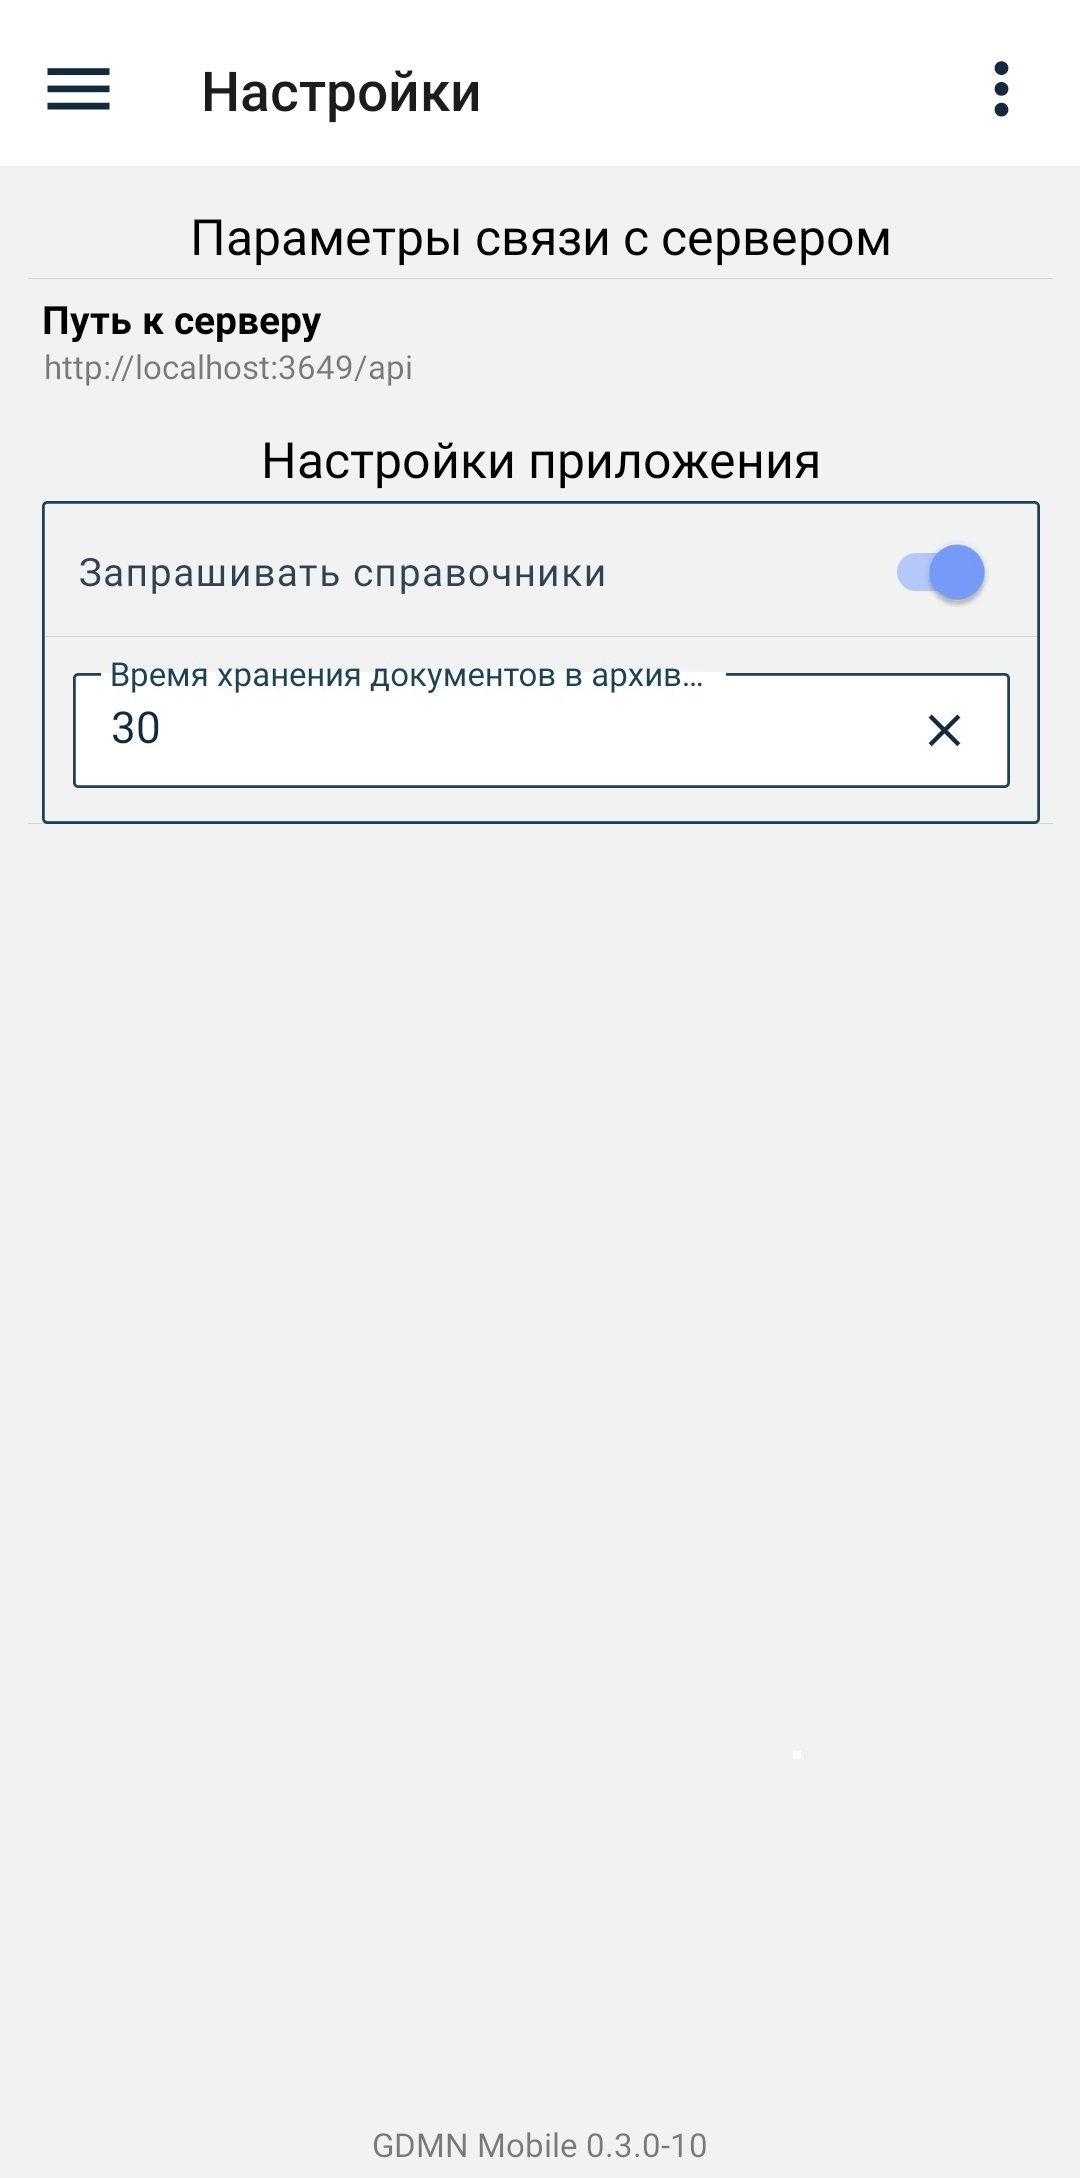
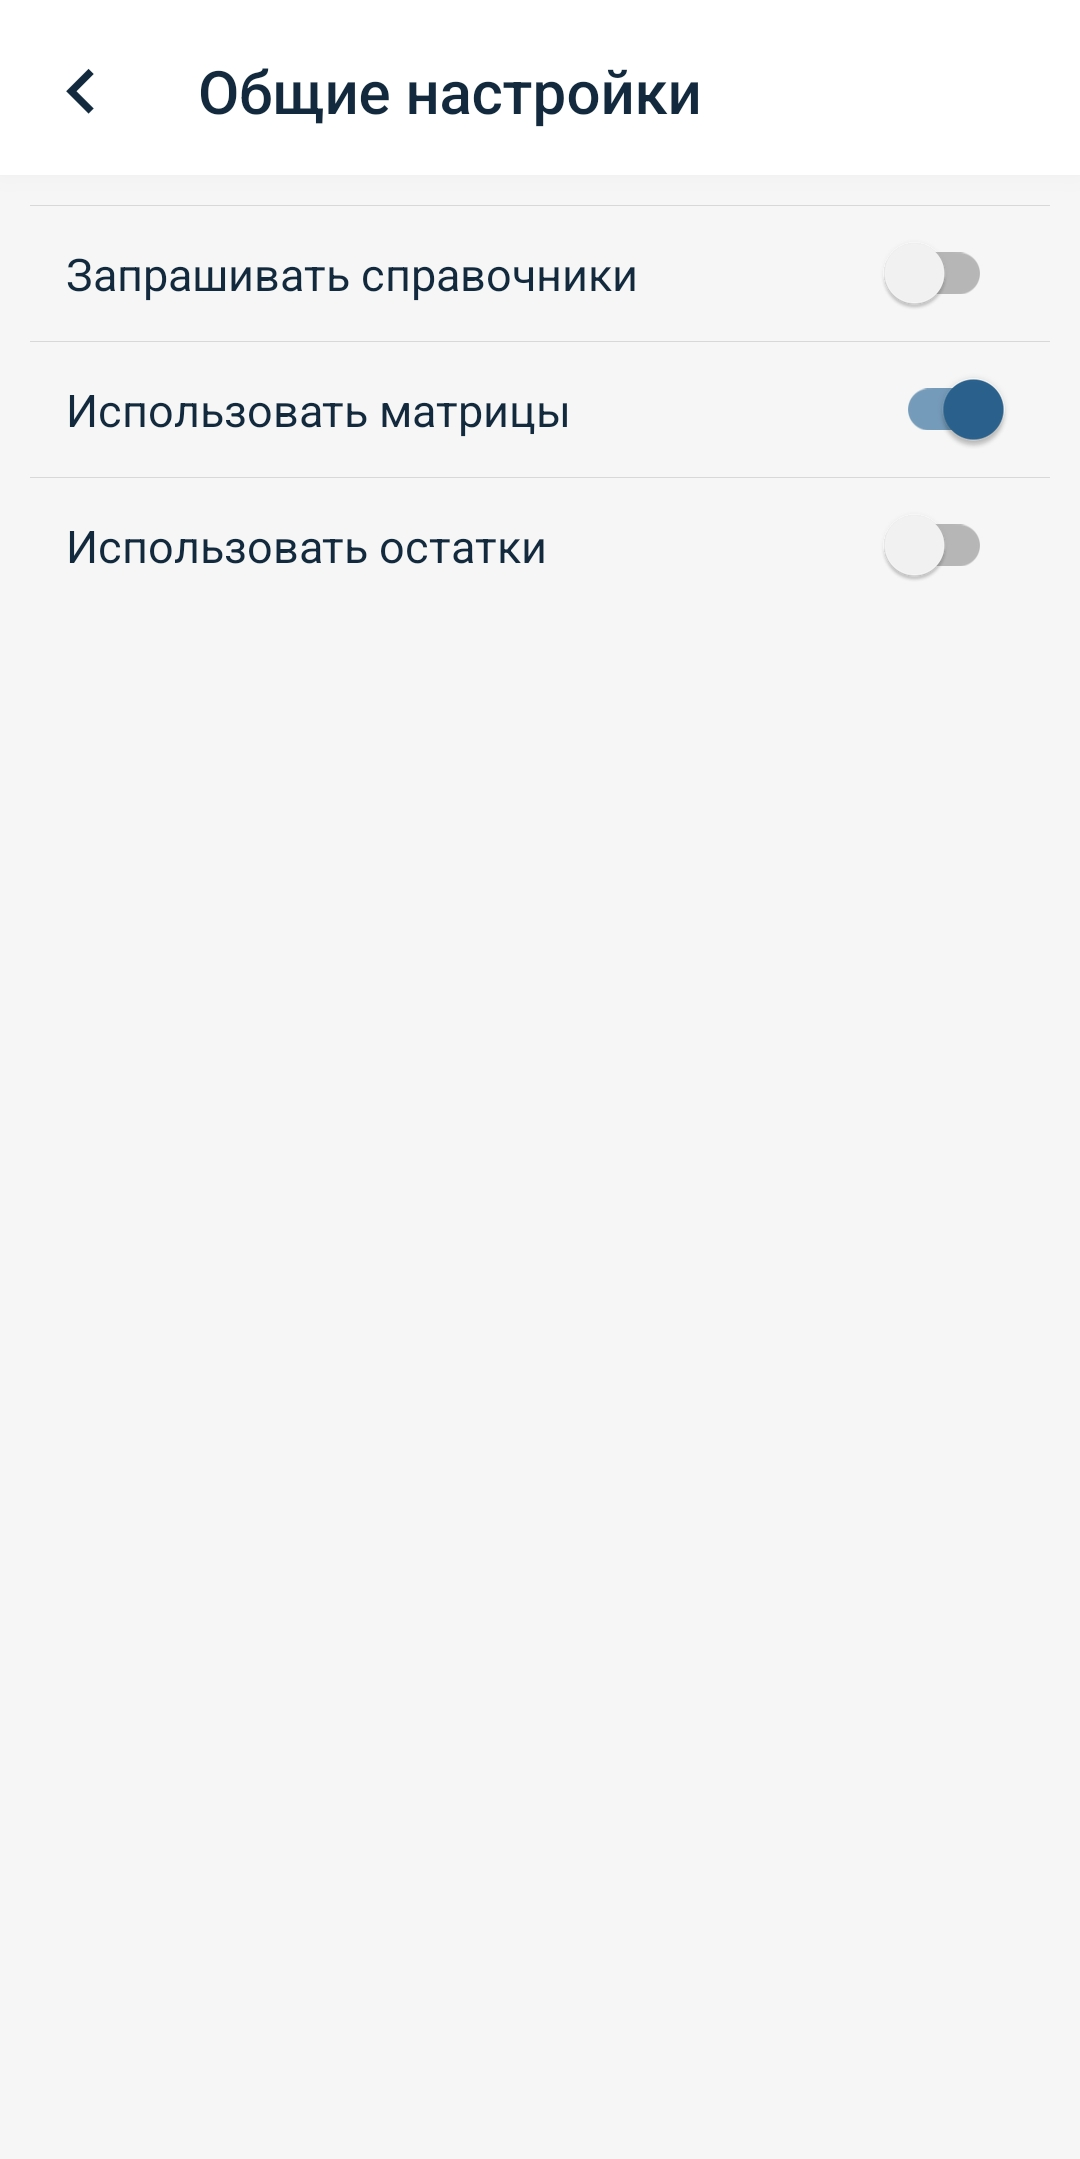
chore: docs

diff --git a/docs/gdmn-app-trade-agents/docs/README.md b/docs/gdmn-app-trade-agents/docs/README.md
@@ -82,23 +82,35 @@
 
 Экран **Настройки** содержит информацию о параметрах связи с сервером и настройки приложения.
 
-<img src="img/8.Settings/8.Settings.jpg" alt="drawing" height="400"/> <img src="img/8.Settings/8.SettingsSynchr.jpg" alt="drawing" height="400"/>
+По нажатию на иконку меню **⋮** , расположенную в правом верхнем углу, можно вернуться к начальным настройкам, выбрав пункт **Установить настройки по умолчанию**.
 
-Синхронизация идет параллельно работе в приложении. Процесс можно просматривать в специальном окне, которое появляется по нажатию на кнопку синхронизации. Если же необходимо продолжить работу в приложении, не дожидаясь окончания синхронизации, можно выбрать кнопку "Продолжить работу в приложении". Окно закроется, но в правом нижнем углу будет отрисован компонент, напоминающий, что процесс синхронизации еще идет. Если на на него нажать, окно синхронизации появится снова.
+<img src="img/8.Settings/8.Settings.jpg" alt="drawing" height="400"/>   <img src="img/8.Settings/8.SettingsMenu.jpg" alt="drawing" height="400"/>
 
-Настройки приложения:
+Общие настройки:
+
+<img src="img/8.Settings/8.BaseSettings.jpg" alt="drawing" height="400"/>
 
 | Параметр | Описание |
 | ------------ | -------- |
-|Синхронизация   | Параметр **Автоматическая синхронизация**, по умолчанию, не установлен.<br> Если установить, то синхронизация будет выполняться автоматически каждые N минут, указанные в признаке "Автосинхронизации, мин". И **Автоматическая синхронизация** по протяжённости периода должна быть больше периода синхронизации на сервере  |
-|Запрашивать справочники|_Если указан_, то при при каждой синхронизации на сервер будет отправляться запрос на справочники, который будет обрабатываться сервером и возвращаться в ответ c запрашиваемыми справочниками. <br> _Если не указан_, то запрос генерироваться не будет. Справочники будут выгружаться из сервера автоматически при каких-либо очередных изменениях на нём.|
+|Запрашивать справочники|_Если указан_, то при при каждой синхронизации, если предыдущий запрос был обработан, на сервер будет отправляться новый запрос за справочниками. Сервер его обработает и вернет новые данные. <br> _Если не указан_, то запрос генерироваться не будет. Справочники будут выгружаться из сервера автоматически при каких-либо очередных изменениях на сервере.|
 |Использовать матрицы|_Если указан_, то при добавлении товаров в заявки, цены будут вытягиваться из матриц по конкретным организациям (при условии,что такая матрица существует). <br> _Если не указан_, или матрицы у данной организации нет, то будут использоваться справочники ТМЦ. |
-|Время хранения документов в архиве| Сколько дней будет хранится документ в приложении от даты документа |
+|Использовать остатки| _Если указан_, то при добавлении товара будет учитываться его наличие в остатках. Также будет доступен пункт меню **Остатки**.|
 
+Синхронизация:
 
-По нажатию на иконку меню " **⁝** ", расположенную в правом верхнем углу, можно вернуться к начальным настройкам, выбрав пункт **Установить настройки по умолчанию**.
+<img src="img/8.Settings/8.Synchr.jpg" alt="drawing" height="400"/>
 
- <img src="img/8.Settings/8.SettingsMenu.jpg" alt="drawing" height="400"/>
+| Параметр | Описание |
+| ------------ | -------- |
+|Автоматическая синхронизация|Параметр по умолчанию не установлен. Если установить, то синхронизация будет выполняться автоматически каждые N минут, указанные в параметре "Автосинхронизация, мин".|
+|Автосинхронизации, мин|Параметр, указывающий, через какой период будет выполняться автосинхронизация при включенном параметре "Автоматическая синхронизация". По протяжённости периода параметр должен быть больше периода синхронизации на сервере.|
+|Синхронизация на сервере, мин|Значение параметра приходит из ЕРП-системы и обозначает период синхронизации на сервере. Автоматическая синхронизация по протяжённости периода должна быть больше периода синхронизации на сервере.| 
+
+Синхронизация идет параллельно работе в приложении. Процесс можно просматривать в специальном окне, которое появляется по нажатию на кнопку синхронизации. Если же необходимо продолжить работу в приложении, не дожидаясь окончания синхронизации, можно выбрать кнопку "Продолжить работу в приложении". Окно закроется, но в правом нижнем углу будет отрисован компонент, напоминающий, что процесс синхронизации еще идет. Если на на него нажать, окно синхронизации появится снова.
+
+Хранение документов:
+
+Количество дней хранения всех типов документов в приложении, отсчитываемое от даты создания документа.
 
 ## 3. Загрузка данных
 
